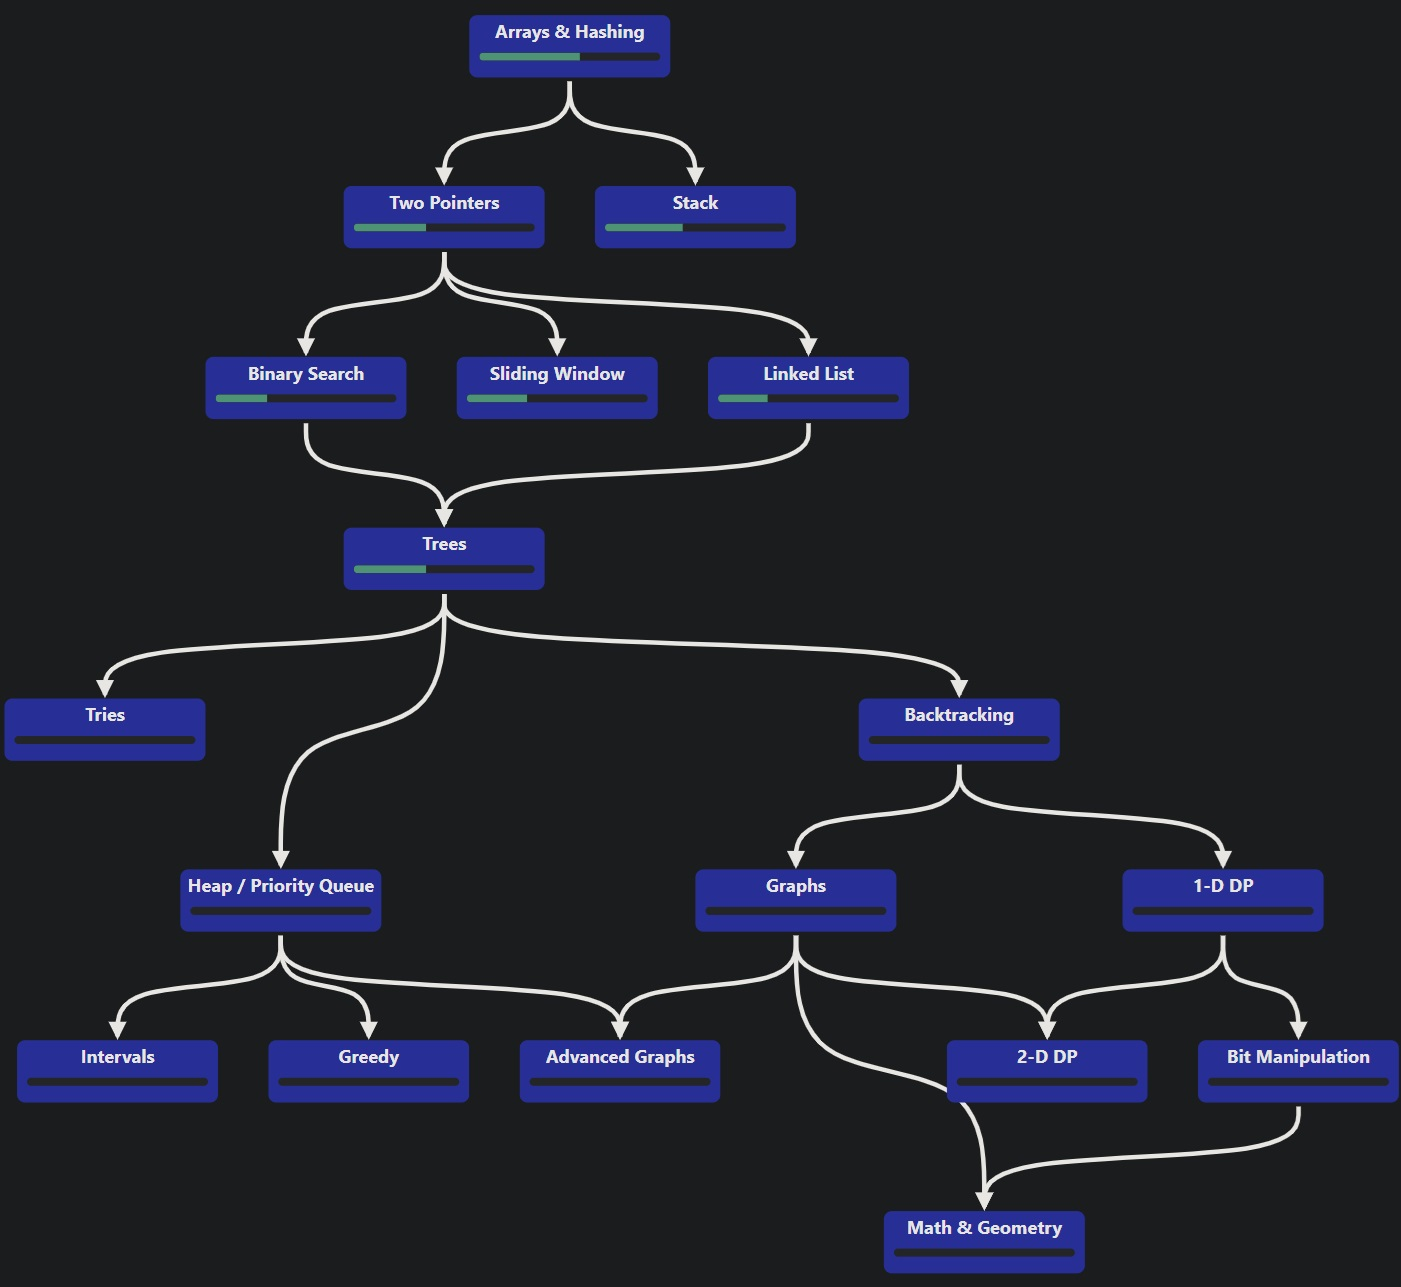
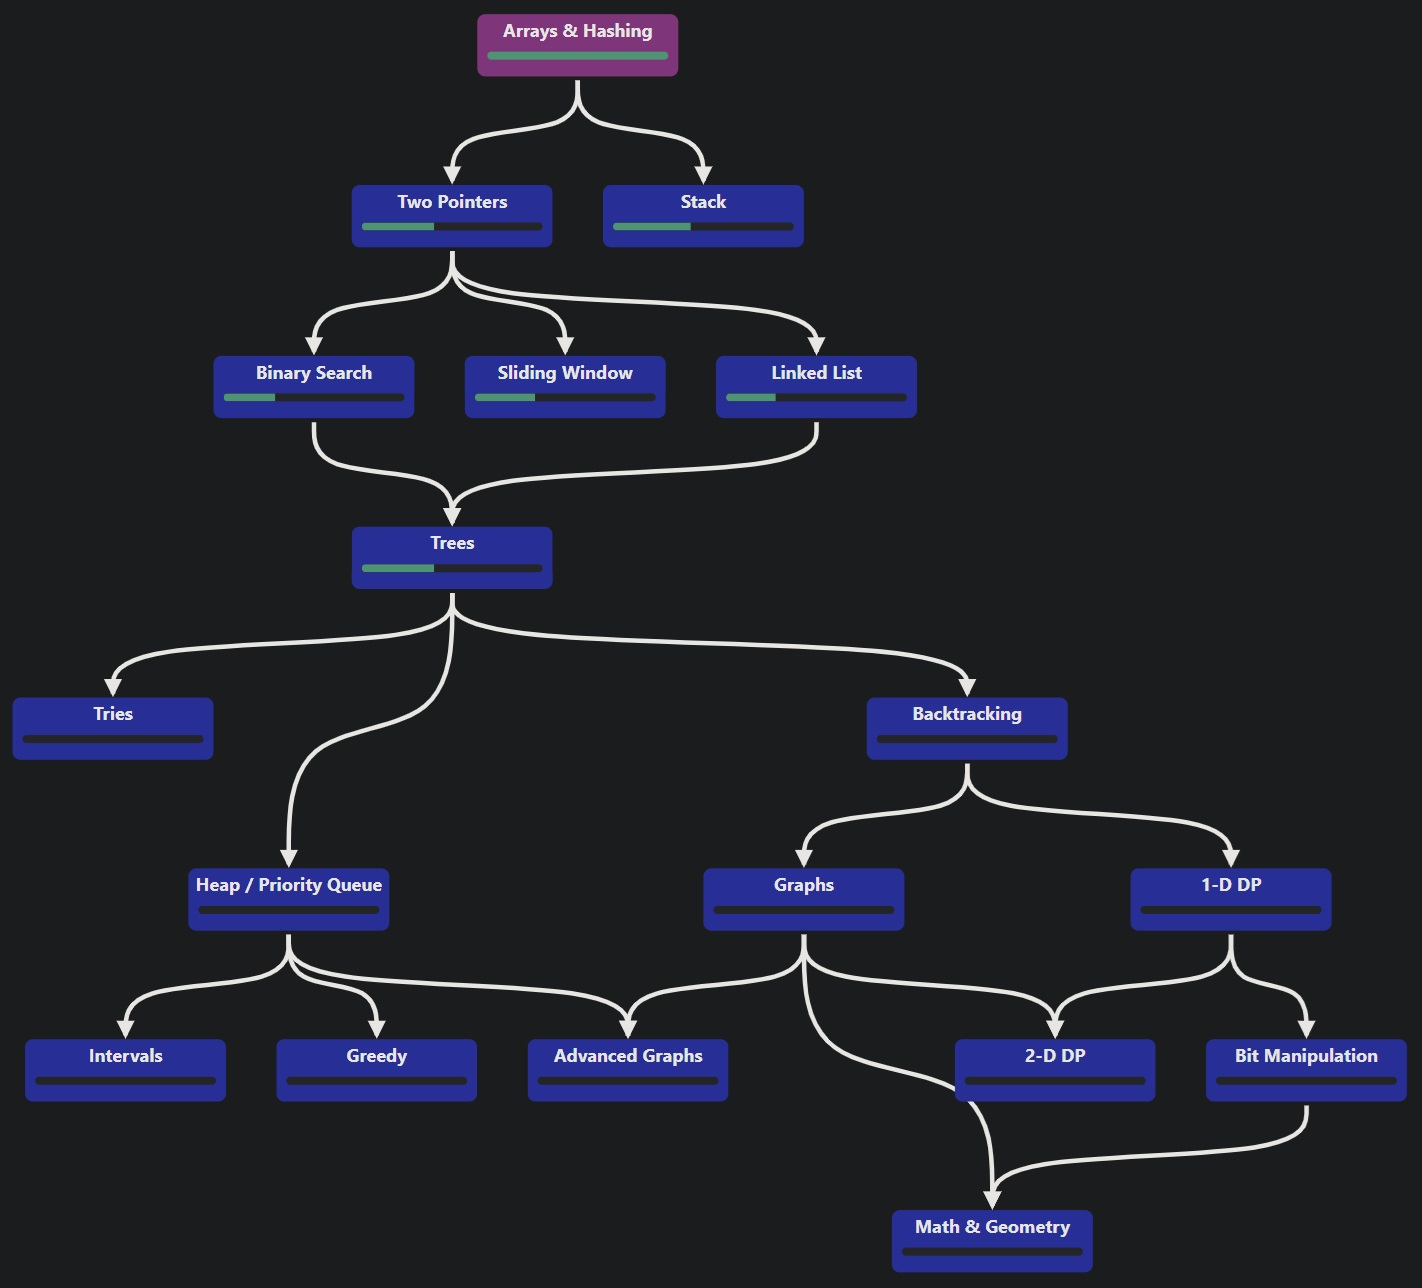
Finished the Arrays and Hashing category

diff --git a/Arrays-&-Hashing/Product-Of-Array-Except-Self.py b/Arrays-&-Hashing/Product-Of-Array-Except-Self.py
@@ -1,0 +1,48 @@
+class Solution:
+    def productExceptSelf(self, nums: list[int]) -> list[int]:
+        
+        # For any position in the array, we are essentially asking ourselves
+        # what is the product of everything that comes before that position (prefix) and what
+        # comes after that position (postfix). First let's calculate these values
+
+        prefix = [1] * len(nums)
+        i = 0
+        while i < len(nums):
+            if i == 0:
+                prefix[i] = nums[i]
+            else:
+                prefix[i] = nums[i] * prefix[i - 1]
+            i += 1
+        
+        postfix = [1] * len(nums)
+        i = len(nums) - 1
+        while i >= 0:
+            if i == len(nums) - 1:
+                postfix[i] = nums[i]
+            else:
+                postfix[i] = nums[i] * postfix[i + 1]
+            i -= 1
+
+        # Finally, we can calculate the product of the array discluding self, using the following
+        # abstraction:
+        # Nums    -> |a|b|c|d|
+        # Prefix  -> |a|a*b|a*b*c|a*b*c*d|
+        # Postfix -> |a*b*c*d|b*c*d|c*d|d|
+        # The product at any one point is the product of the left prefix and right postfix times the value.
+        # Therefore, to calculate the product without the value, it is simply done without the value added to the 
+        # calculation, ie. |b*c*d|a*c*d|a*b*d|a*b*c|
+
+        result = []
+        for i in range(len(nums)):
+            if i == 0:
+                leftVal = 1
+            else:
+                leftVal = prefix[i - 1]
+            if i == len(nums) - 1:
+                rightVal = 1
+            else:
+                rightVal = postfix[i + 1]
+            
+            result.append(leftVal * rightVal)
+        
+        return result

diff --git a/Arrays-&-Hashing/Longest-Consecutive-Sequence.py b/Arrays-&-Hashing/Longest-Consecutive-Sequence.py
@@ -1,0 +1,36 @@
+class Solution:
+    def longestConsecutive(self, nums: list[int]) -> int:
+        
+        # Create a hashtable for all of the nums, as well as ones we have processed
+        numSet = set(nums)     
+        totalVisited = set()
+        longest = 0
+
+        for num in numSet:
+
+            # Only process a value if it hasn't been previously
+            if not num in totalVisited:
+                totalVisited.add(num)
+
+                # We are going to search in both the positive and negative direction of the
+                # current value for a sequence, so initialze a hashTable for the current search
+                currVisited = set()
+                currVisited.add(num)
+                leftOffset, rightOffset = -1, 1
+
+                # Search above the value
+                while num + rightOffset in numSet:
+                    totalVisited.add(num + rightOffset)
+                    currVisited.add(num + rightOffset)
+                    rightOffset += 1
+
+                # Search below the value
+                while num - leftOffset in numSet:
+                    totalVisited.add(num - leftOffset)
+                    currVisited.add(num - leftOffset)
+                    leftOffset -= 1      
+
+                # See if it is the longest current consecutive segment of values
+                longest = max(longest, len(currVisited))
+
+        return longest

diff --git a/Arrays-&-Hashing/Encode-And-Decode-Strings.py b/Arrays-&-Hashing/Encode-And-Decode-Strings.py
@@ -1,0 +1,34 @@
+class Solution:
+
+    def encode(self, strs: list[str]) -> str:
+        
+        joined = ""
+        for string in strs:
+            # We need to create a delimiter. Using just a number at the start of the word
+            # won't work if the string size is more than 1 digit, so we use a symbol as a second
+            # delimiter to tell the decoder when to stop reading the string length int delimiter.
+            # We also put this delimiter at the start of the string to make sure it is the first thing
+            # read by the decoder, and not the start of a string which would contain similar characters.
+            joined += str(len(string)) + "^" + string
+
+        return joined
+
+    def decode(self, s: str) -> list[str]:
+        
+        separated = []
+        i = 0
+
+        while i < len(s):
+
+            # Decode the length of the sub string
+            length = ""
+            while s[i] != '^':
+                length += s[i]
+                i += 1
+            length = int(length)
+
+            # Append the sliced string and advance the pointer to the start of the next delimiter
+            separated.append(s[i+1:i+length+1])
+            i += length + 1
+        
+        return separated

diff --git a/Arrays-&-Hashing/Valid-Sudoku.py b/Arrays-&-Hashing/Valid-Sudoku.py
@@ -1,0 +1,27 @@
+from collections import defaultdict
+
+class Solution:
+    def isValidSudoku(self, board: list[list[str]]) -> bool:
+        
+        # Create a dict with the corresponding row/col/(row,col) as a key, and the value pair being
+        # the set of values in that structure seen
+        rows = defaultdict(set)
+        cols = defaultdict(set)
+        squares = defaultdict(set)
+
+        # Iterate through the board
+        for row in range(9):
+            for col in range(9):
+
+                # Get our current value to process
+                val = board[row][col]
+
+                if val != ".":
+
+                    # Check to see if this value exists already in any of the structures, otherwise add to each
+                    if val in rows[row] or val in cols[col] or val in squares[(row//3, col//3)]: return False
+                    rows[row].add(val)
+                    cols[col].add(val)
+                    squares[(row//3, col//3)].add(val)
+
+        return True
